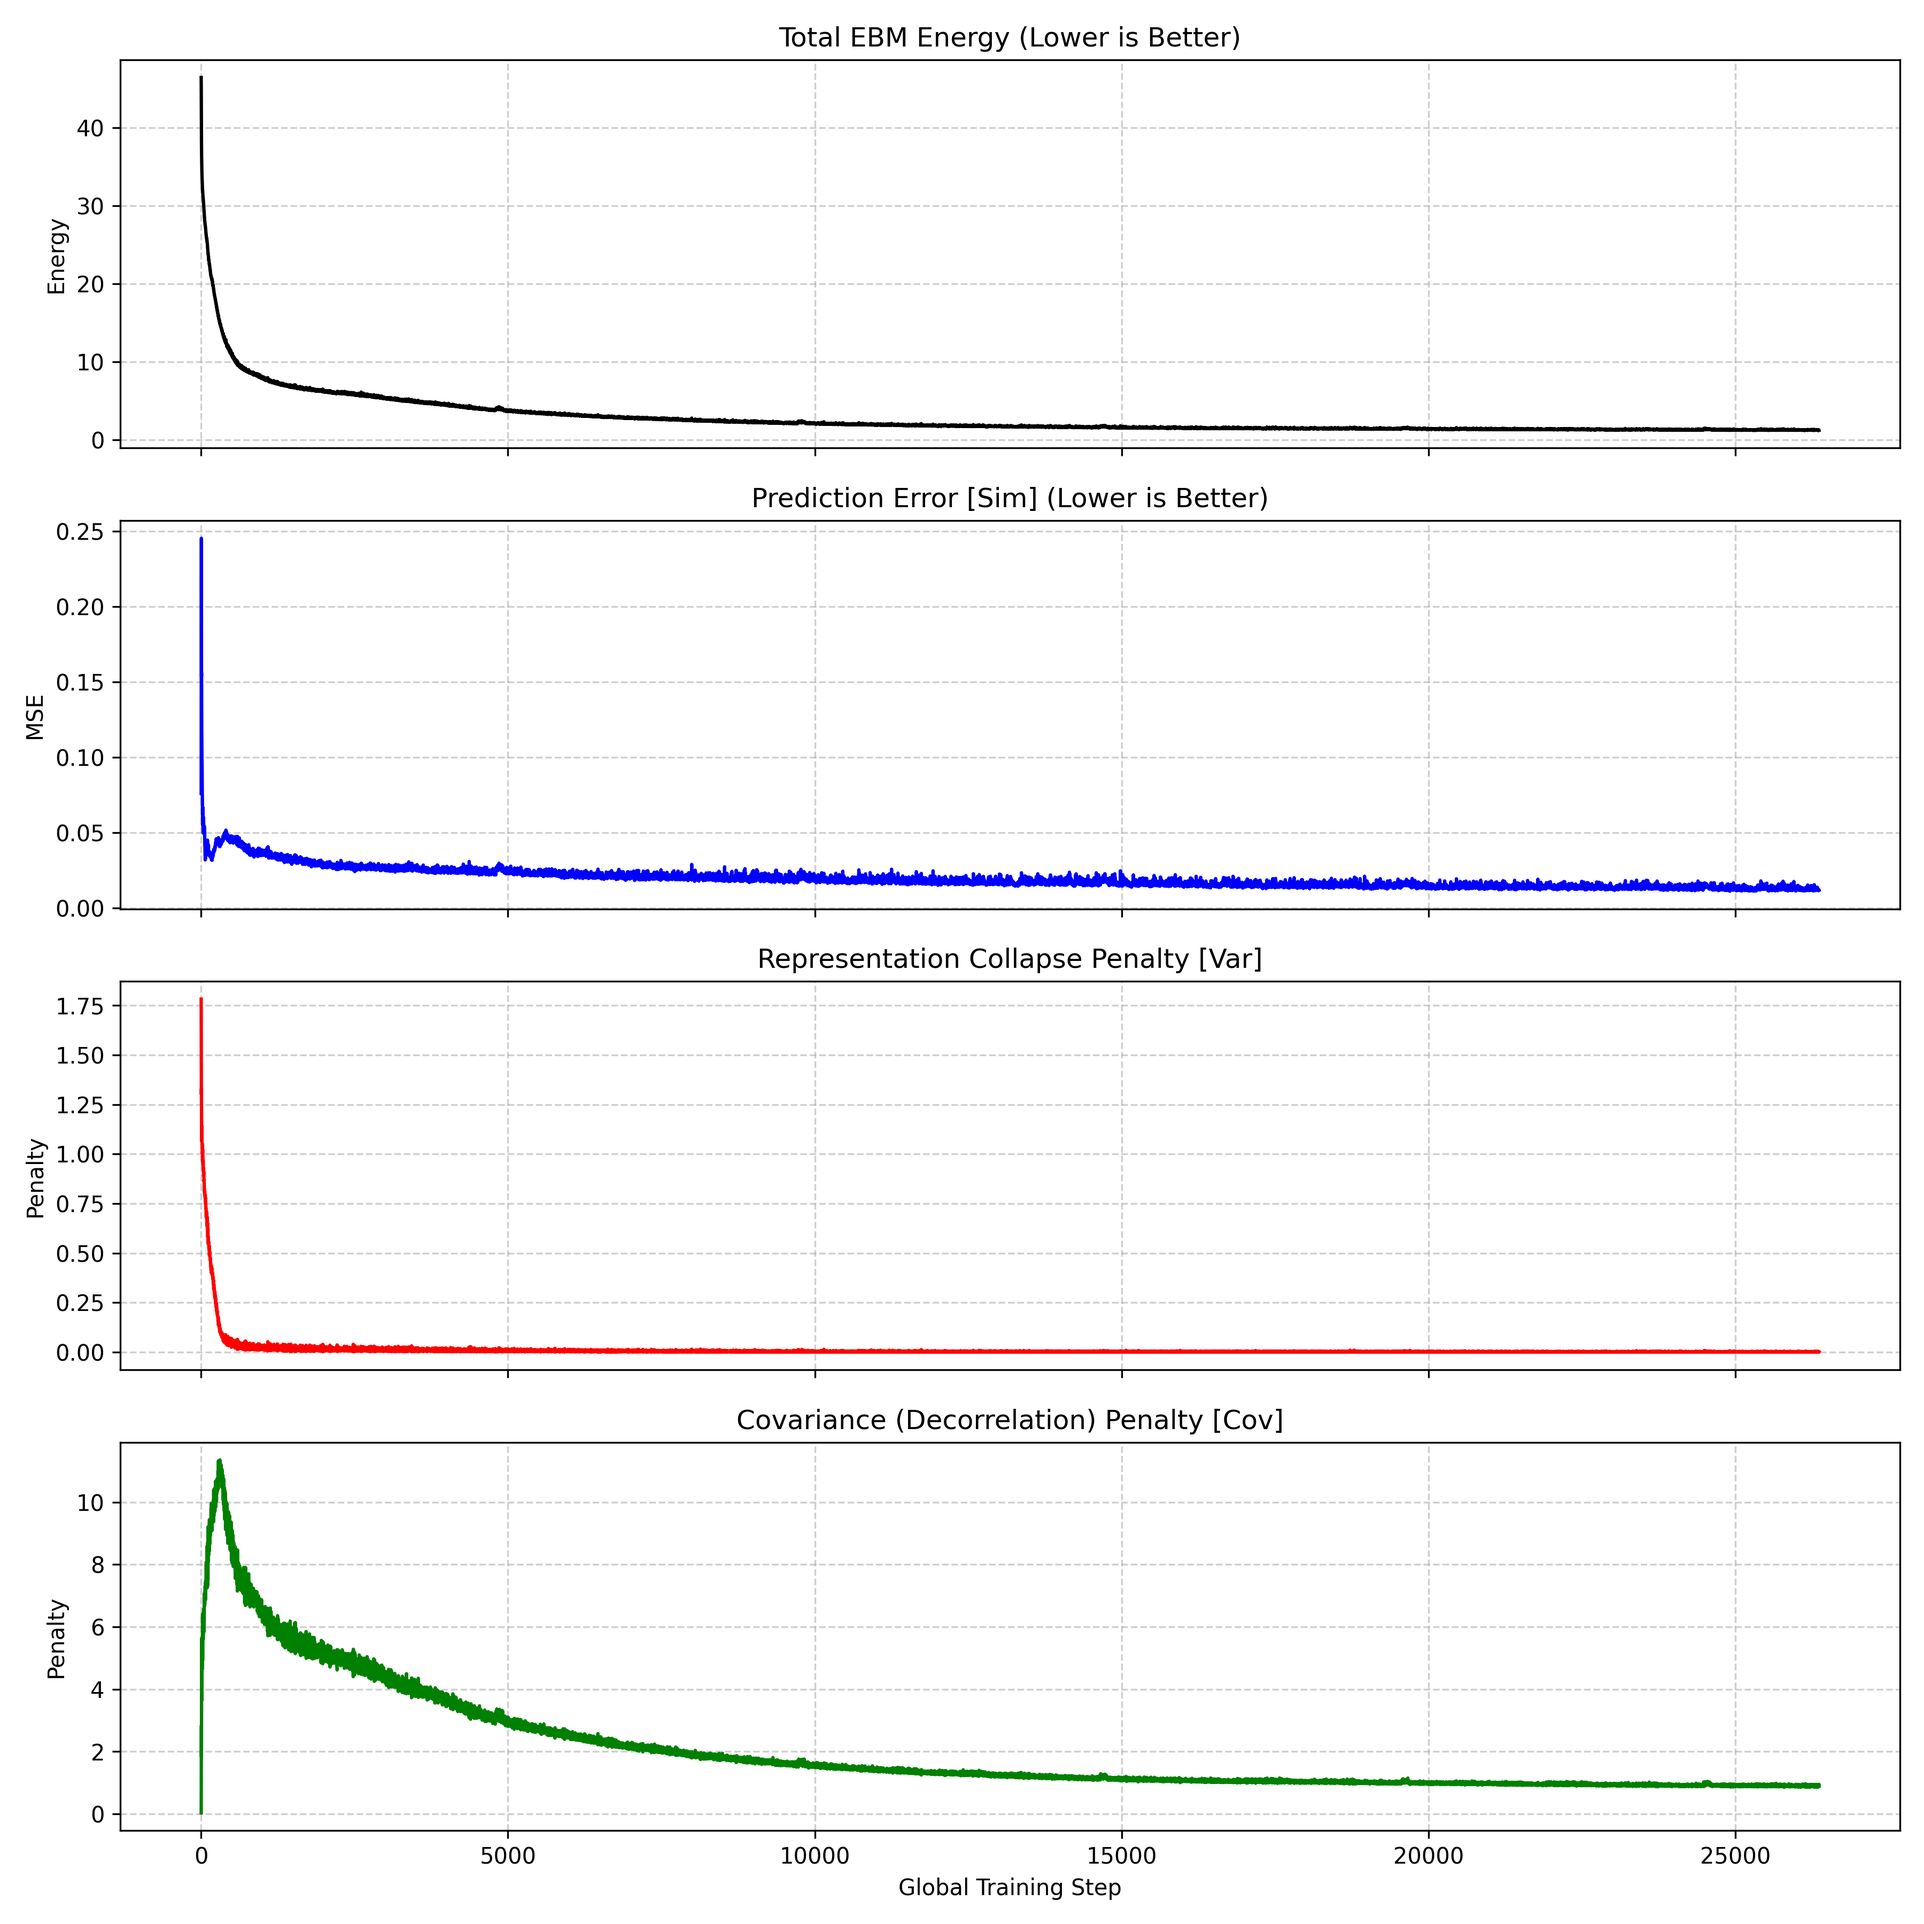
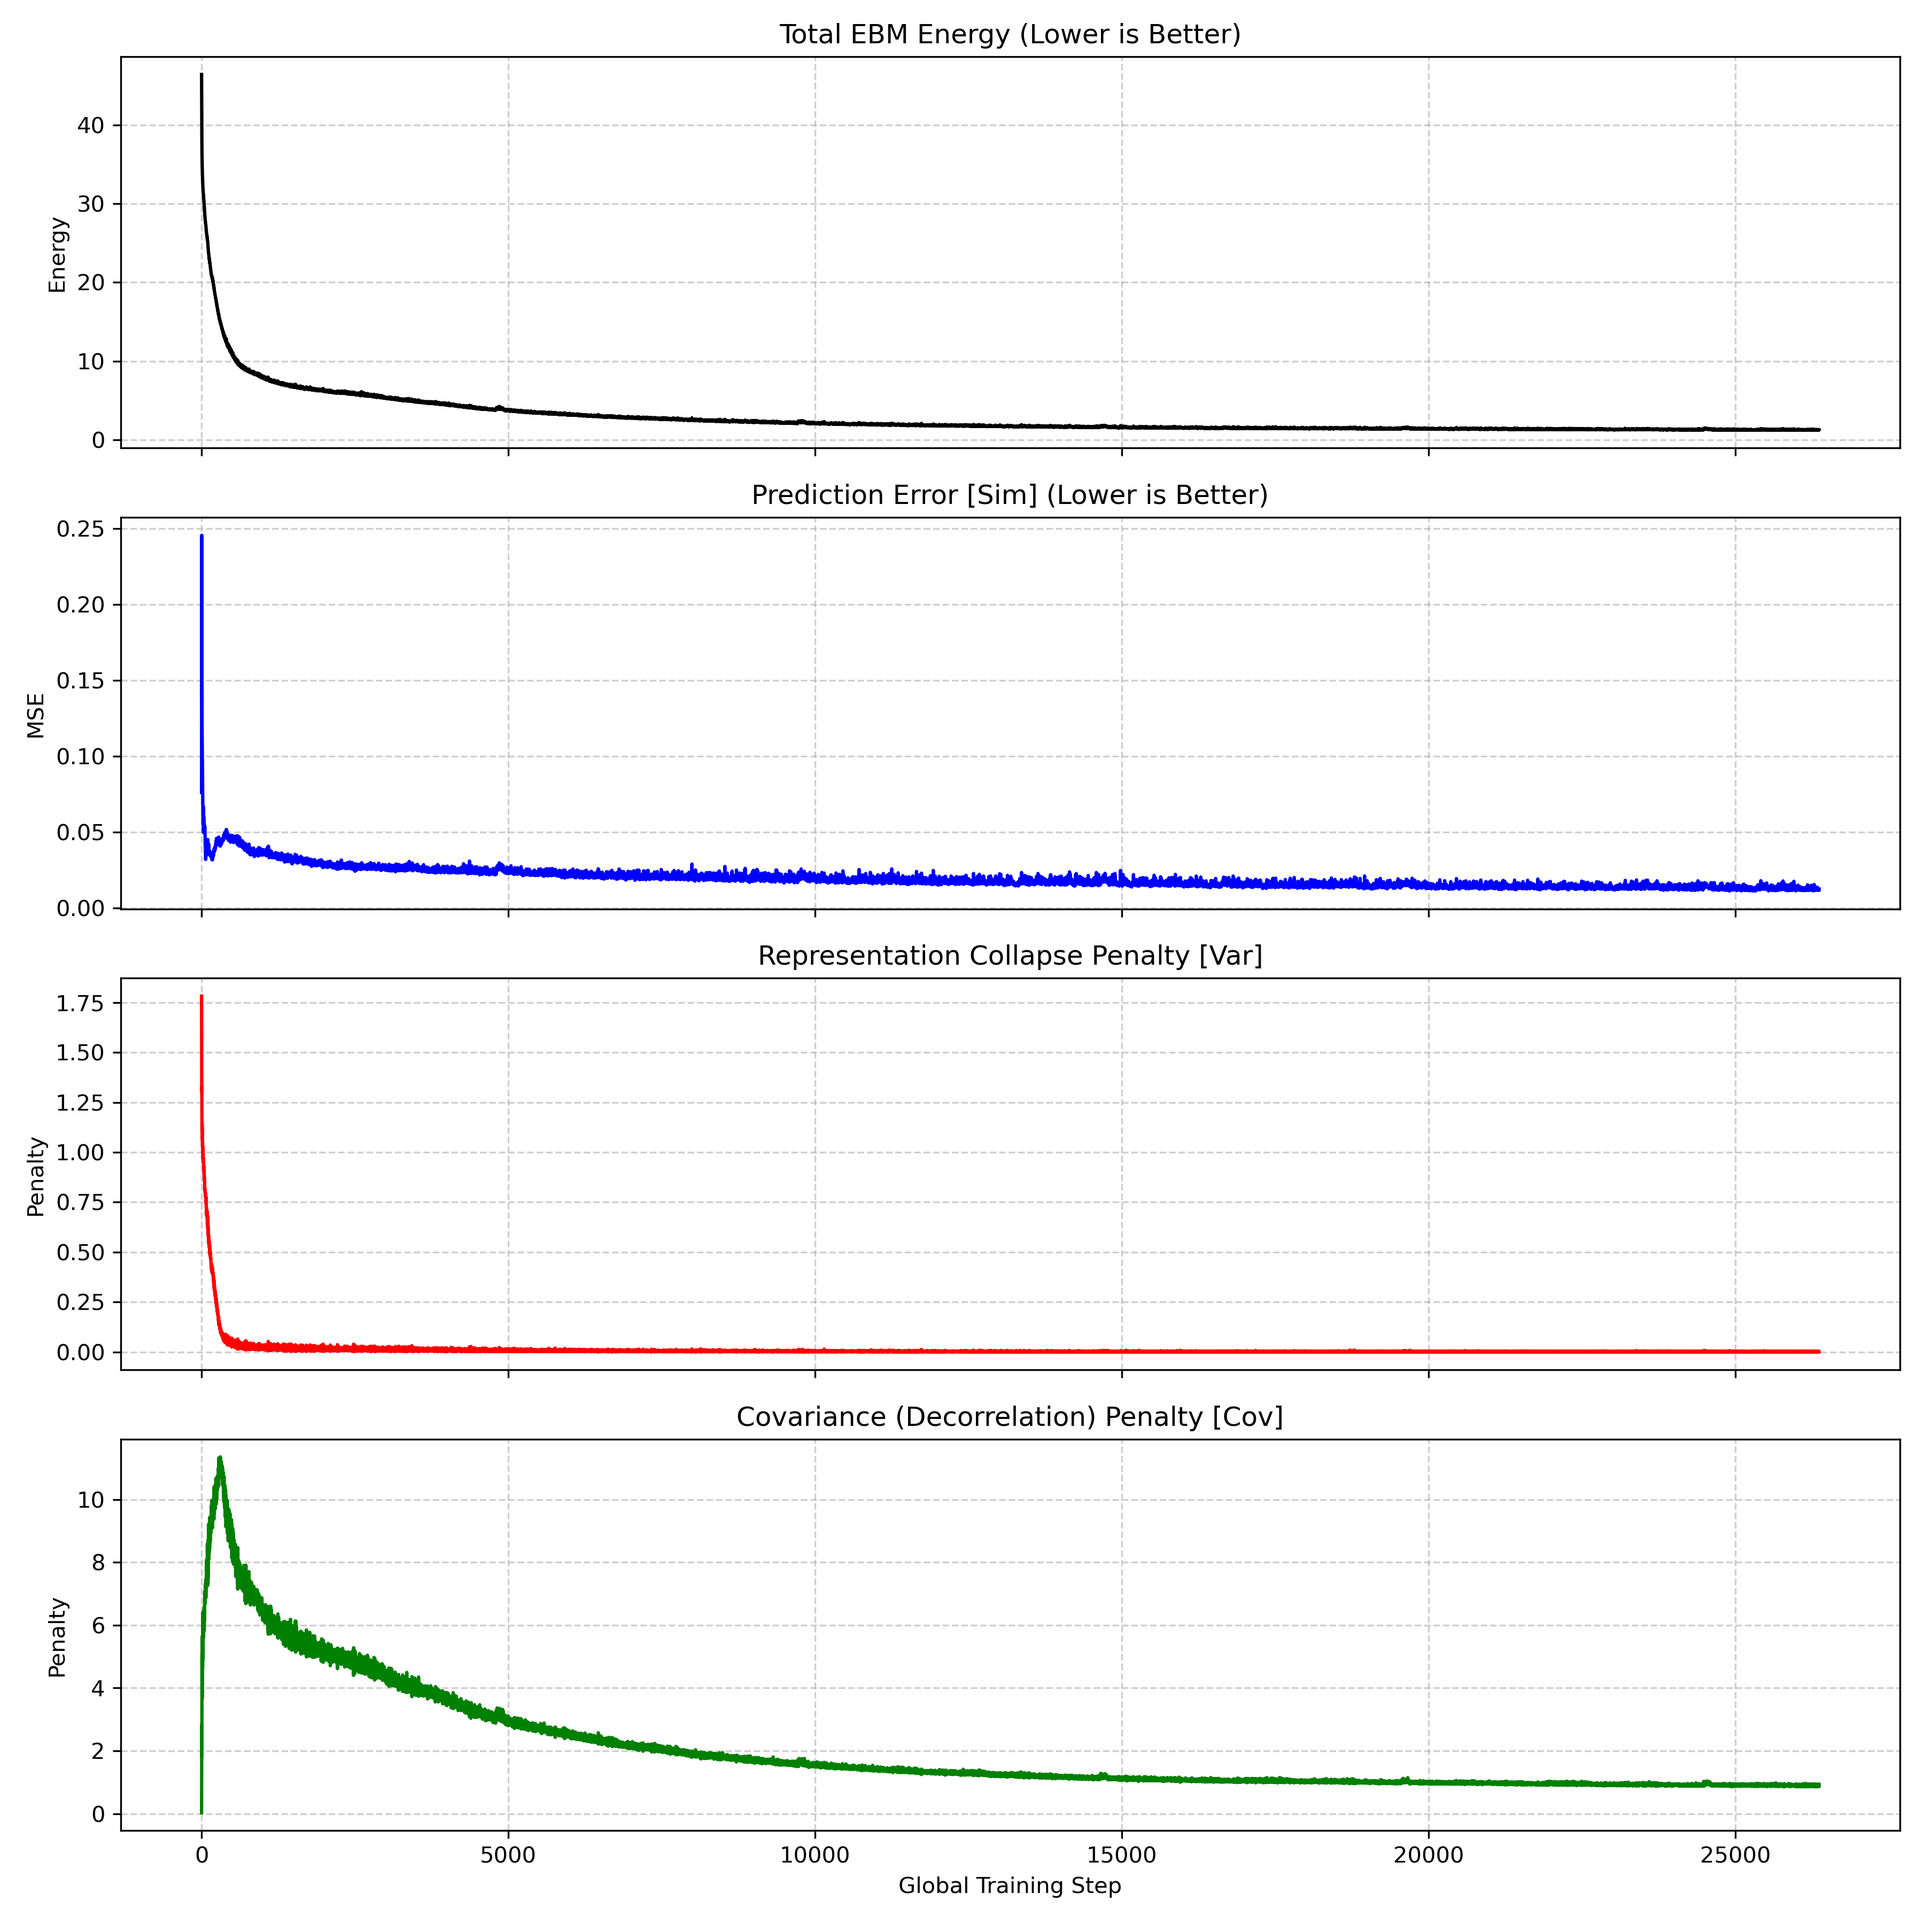
metrics script upate

diff --git a/JEPA/plot_metrics.py b/JEPA/plot_metrics.py
@@ -2,7 +2,7 @@
 """
 System 2 EBM JEPA Telemetry Visualizer.
 Reads the live CSV log file, renders a stacked metrics graph,
-and prints a summary table of the best metrics.
+and prints a summary table of the latest smoothed metrics.
 
 Usage:
     python JEPA/plot_metrics.py
@@ -38,17 +38,24 @@ def plot_metrics(csv_path="jepa_logs/training_metrics.csv"):
 
     print(f"📈 Plotting {len(steps)} data points...")
     
-    # --- Print Best Stats Table ---
-    print("\n" + "="*40)
-    print("🏆 CURRENT BEST TRAINING METRICS 🏆")
-    print("="*40)
-    print(f"| {'Metric':<15} | {'Best Value':<18} |")
-    print("-" * 40)
-    print(f"| {'Total Energy':<15} | {min(energy):<18.4f} |")
-    print(f"| {'Sim (MSE)':<15} | {min(sim):<18.4f} |")
-    print(f"| {'Var (Collapse)':<15} | {min(var):<18.4f} |")
-    print(f"| {'Cov (Tangle)':<15} | {min(cov):<18.4f} |")
-    print("="*40 + "\n")
+    # Calculate latest smoothed values (last 50 steps)
+    window = min(50, len(steps))
+    latest_energy = sum(energy[-window:]) / window
+    latest_sim = sum(sim[-window:]) / window
+    latest_var = sum(var[-window:]) / window
+    latest_cov = sum(cov[-window:]) / window
+
+    # --- Print Current Stats Table ---
+    print("\n" + "="*45)
+    print("🚀 CURRENT LIVE METRICS (50-Step Avg) 🚀")
+    print("="*45)
+    print(f"| {'Metric':<18} | {'Latest Value':<20} |")
+    print("-" * 45)
+    print(f"| {'Total Energy':<18} | {latest_energy:<20.4f} |")
+    print(f"| {'Sim (MSE)':<18} | {latest_sim:<20.4f} |")
+    print(f"| {'Var (Collapse)':<18} | {latest_var:<20.4f} |")
+    print(f"| {'Cov (Tangle)':<18} | {latest_cov:<20.4f} |")
+    print("="*45 + "\n")
     
     # Create a 4-panel stacked plot
     fig, axs = plt.subplots(4, 1, figsize=(12, 12), sharex=True)
